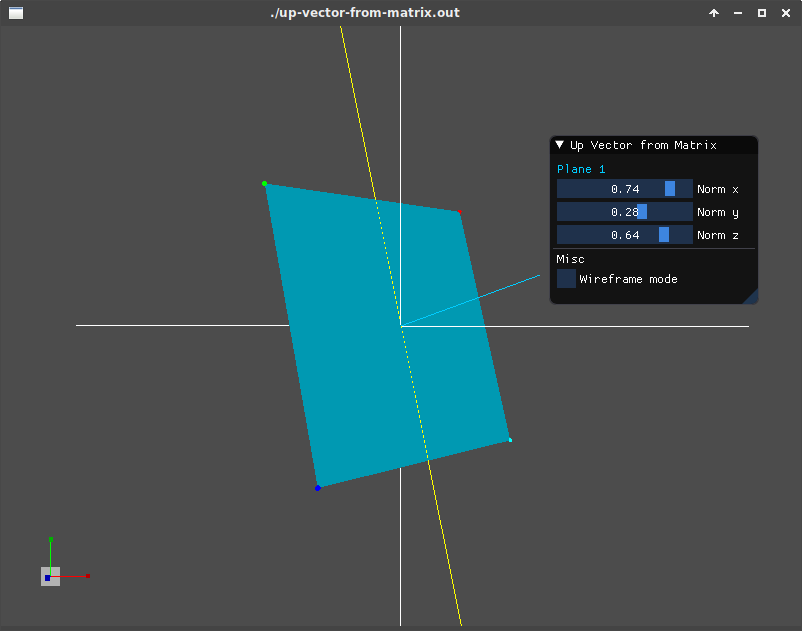
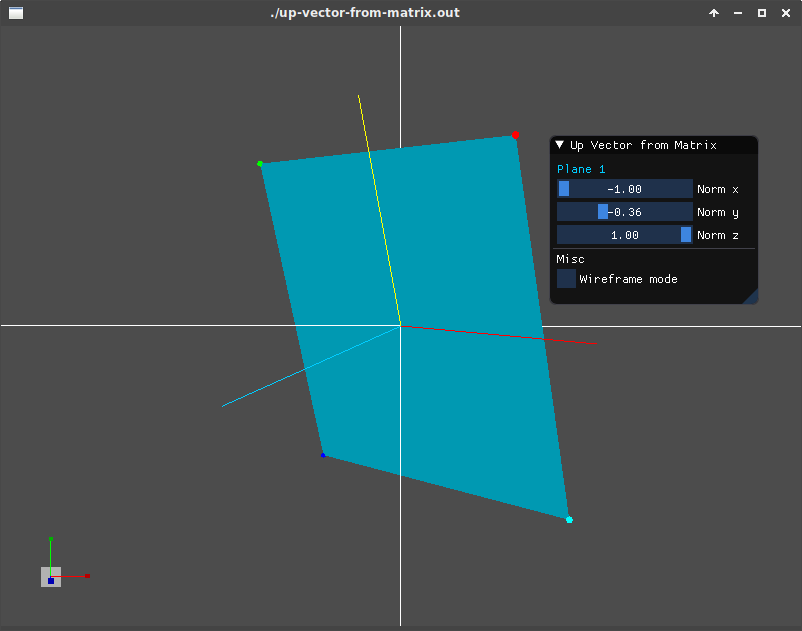
Add drawing of left vector as well in UpVectorFromMatrix

diff --git a/src/UpVectorFromMatrix/main.cpp b/src/UpVectorFromMatrix/main.cpp
@@ -6,7 +6,8 @@
  * any combination of transformation on it).
  *
  * Use a plane as a target object in the scene.
- * A yellow line drew represent up vector for such object at any time.
+ * A yellow line drew representing up vector for such object at any time.
+ * A red line drew presenting left vector for such object at any time (extra to add).
  *
  * This example code is based on 2PlanesIntersection with modifed and works up on it.
  *
@@ -149,6 +150,7 @@ glm::vec3 planeVertices[4] = {
 };
 glm::vec3 planeNormalLineVertices[2];
 glm::vec3 planeUpLineVertices[2];
+glm::vec3 planeLeftLineVertices[2];
 
 glm::vec3 dotVertex;
 
@@ -372,6 +374,7 @@ void renderPlane_geometry(const Plane& p, const glm::vec3& color, const glm::vec
     // (reset matrix back to normal)
     glUniformMatrix4fv(shader.GetUniformLocation("model"), 1, GL_FALSE, glm::value_ptr(glm::mat4(1.0f)));
 
+    glDepthFunc(GL_ALWAYS);
     // 2. render plane normal
     planeNormalLineVertices[0] = p.pos;
     planeNormalLineVertices[1] = p.pos + 0.5f*p.normal;
@@ -383,13 +386,26 @@ void renderPlane_geometry(const Plane& p, const glm::vec3& color, const glm::vec
     // 3. render plane's up vector
     // get up vector from 2nd column vector of lookAt matrix as we constructed it from above
     glm::vec3 lineDir = lookAt[1];
-    // use plane's position as the beginning point then extend into both ends positively, and negatively
-    planeUpLineVertices[0] = p.pos + lineDir;
-    planeUpLineVertices[1] = p.pos - lineDir;
+    // use plane's position as the beginning point then extend into lineDir direction 
+    planeUpLineVertices[0] = p.pos + lineDir*PLANE_SIZE_FACTOR*1.3f;
+    planeUpLineVertices[1] = p.pos;
     glUniform3f(shader.GetUniformLocation("color"), 1.0f, 1.0f, 0.0f);
     glBufferData(GL_ARRAY_BUFFER, sizeof(glm::vec3) * 2, nullptr, GL_STREAM_DRAW);
     glBufferData(GL_ARRAY_BUFFER, sizeof(glm::vec3) * 2, planeUpLineVertices, GL_STREAM_DRAW);
     glDrawArrays(GL_LINES, 0, 2);
+
+    // 4. (extra) render plane's left vector
+    // get left vector from 1st column vector of lookAt matrix as we constructed it from above
+    lineDir = lookAt[0];
+    // use plane's position as the beginning point then extend into lineDir direction
+    planeLeftLineVertices[0] = p.pos + lineDir*PLANE_SIZE_FACTOR*1.3f;
+    planeLeftLineVertices[1] = p.pos;
+    glUniform3f(shader.GetUniformLocation("color"), 1.0f, 0.0f, 0.0f);
+    glBufferData(GL_ARRAY_BUFFER, sizeof(glm::vec3) * 2, nullptr, GL_STREAM_DRAW);
+    glBufferData(GL_ARRAY_BUFFER, sizeof(glm::vec3) * 2, planeLeftLineVertices, GL_STREAM_DRAW);
+    glDrawArrays(GL_LINES, 0, 2);
+
+    glDepthFunc(GL_LESS);
 }
 
 // required: dotShader needs to already began

diff --git a/src/UpVectorFromMatrix/README.md b/src/UpVectorFromMatrix/README.md
@@ -4,5 +4,10 @@ This example tries to prove that 2nd column vector from transformation matrix in
 represents up vector of the object in the scene even after perform a certain rotation (or in fact
 any combination of transformation on it).
 
+See the lines coming out from the plane itself, they represent the following
+* Red line represents *left vector*
+* Yello line represents *up vector*
+* Blue line represents *forward vector*
+
 ![screenshot](screenshot.png)
 
